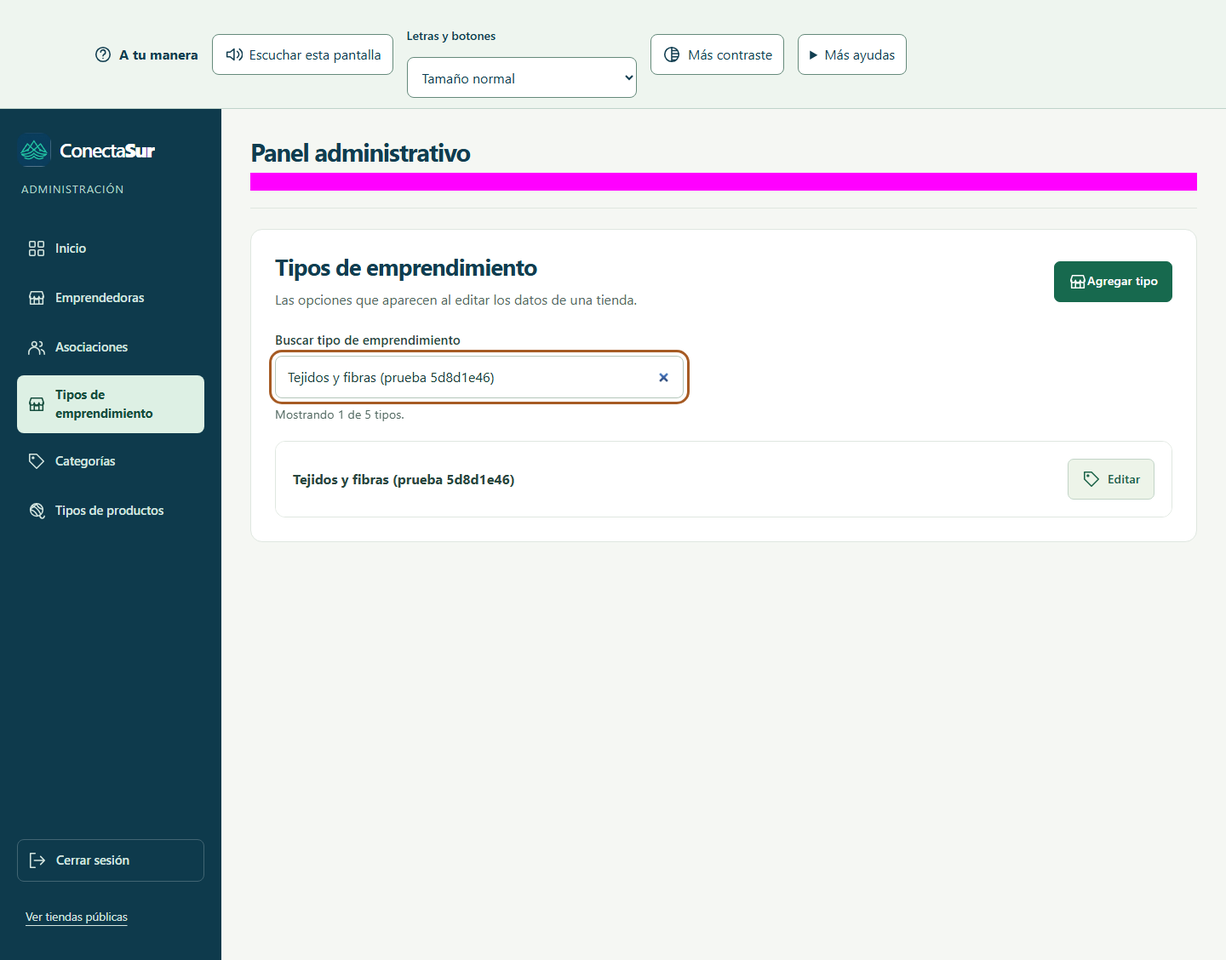
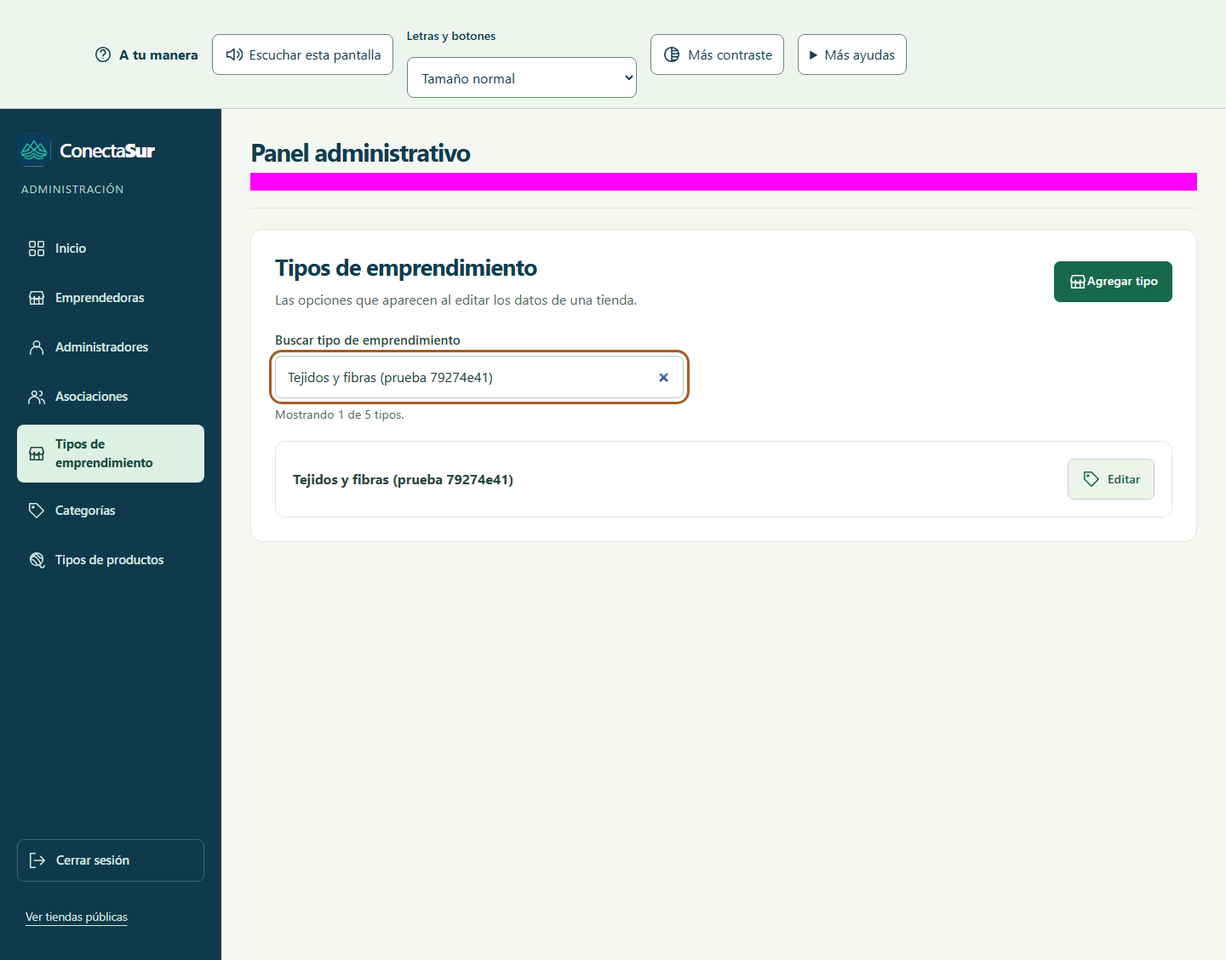
Pantalla para editar cuenta

Changed region(s): [[0.0, 0.3413, 0.1875, 0.5895], [0.375, 0.4965, 0.4375, 0.5275], [0.3438, 0.3723, 0.4062, 0.4034]]

diff --git a/web/src/entrepreneur-account-editor.js b/web/src/entrepreneur-account-editor.js
@@ -1,0 +1,37 @@
+import {escapeHtml as escape} from './content.js';
+import {icon} from './visuals.js';
+
+export function showEntrepreneurAccountEditor(container,data,shop,{onSaved,onCancel}){
+  let stopped=false,busy=false,initial=null;
+  const events=new AbortController();
+  container.innerHTML=`<section class="entrepreneur-account-editor" data-voice-guide="Aquí puedes editar el nombre de la cuenta de una emprendedora. Escribe el nombre de la persona y pulsa Guardar nombre. Su tienda y sus datos de acceso se conservan. Cancelar permite volver a la lista sin guardar."><div class="section-heading"><div><p class="public-eyebrow">Administración · Emprendedoras</p><h2 tabindex="-1">Editar cuenta</h2><p>Actualiza el nombre de la persona que administra este emprendimiento.</p></div></div><div class="form-card"><p class="editor-hint">Tienda: <strong>${escape(shop.name)}</strong></p><p data-account-status class="owner-status" role="status">Cargando cuenta…</p><form id="entrepreneur-account-form" hidden><label for="entrepreneur-account-name">Nombre de la emprendedora</label><input id="entrepreneur-account-name" required maxlength="120" autocomplete="name" aria-describedby="entrepreneur-account-help"><p id="entrepreneur-account-help" class="editor-hint">Este es el nombre de la persona. El nombre de su tienda y sus datos de acceso se conservan.</p><p id="entrepreneur-account-state"></p><div class="owner-actions"><button type="submit" id="save-entrepreneur-account">${icon('check')}Guardar nombre</button><button type="button" id="cancel-entrepreneur-account">Cancelar</button></div></form><button type="button" id="account-load-retry" hidden>Intentar nuevamente</button><button type="button" id="account-load-back">Volver a emprendedoras</button></div></section>`;
+  const root=container.querySelector('.entrepreneur-account-editor'),form=root.querySelector('form'),field=root.querySelector('#entrepreneur-account-name'),retry=root.querySelector('#account-load-retry'),back=root.querySelector('#account-load-back');
+  const alive=()=>!stopped && root.isConnected;
+  const dirty=()=>alive() && initial && field.value!==initial.displayName;
+  function tell(text,error=false){if(!alive())return;const status=root.querySelector('[data-account-status]');status.textContent=text;status.className='owner-status'+(error?' owner-error':'');status.setAttribute('role',error?'alert':'status');if(error){status.tabIndex=-1;status.focus();}}
+  function requestLeave(){if(!alive())return true;if(busy){tell('Espera a que termine el guardado.');return false;}return !dirty() || window.confirm('Hay cambios sin guardar. ¿Quieres salir y descartarlos?');}
+  function cancel(){if(requestLeave())onCancel();}
+  async function load(){
+    retry.hidden=true;retry.disabled=true;tell('Cargando cuenta…');
+    try{
+      const result=await data.get({uid:shop.ownerUid,shopId:shop.id});if(!alive())return;
+      initial=result;field.value=result.displayName;root.querySelector('#entrepreneur-account-state').textContent='Estado de la cuenta: '+(result.active?'Activa.':'Inactiva.');form.hidden=false;back.hidden=true;tell('');field.focus({preventScroll:true});
+    }catch(error){if(alive()){tell(error.code==='entrepreneur_account_changed'?error.message:'No pudimos cargar la cuenta. Revisa tu conexión y vuelve a intentarlo.',true);retry.hidden=false;}}
+    finally{if(alive())retry.disabled=false;}
+  }
+  root.querySelector('h2').focus({preventScroll:true});
+  retry.addEventListener('click',load);back.addEventListener('click',cancel);root.querySelector('#cancel-entrepreneur-account').addEventListener('click',cancel);field.addEventListener('input',()=>field.setCustomValidity(''));
+  form.addEventListener('submit',async event=>{
+    event.preventDefault();if(busy || !initial)return;
+    if(!field.value.trim()){field.setCustomValidity('Escribe el nombre de la emprendedora.');field.reportValidity();return;}
+    busy=true;form.querySelectorAll('button,input').forEach(el=>el.disabled=true);const save=root.querySelector('#save-entrepreneur-account');save.setAttribute('aria-busy','true');tell('Guardando el nombre de la cuenta…');
+    try{
+      const result=await data.rename({uid:initial.uid,shopId:initial.shopId,displayName:field.value,expectedName:initial.displayName});
+      if(!alive())return;initial=result;field.value=result.displayName;onSaved(result);
+    }catch(error){if(alive())tell(['invalid_entrepreneur_account','entrepreneur_account_changed','entrepreneur_account_not_ready','entrepreneur_account_unconfirmed'].includes(error.code)?error.message:'No pudimos confirmar el guardado. Revisa tu conexión y vuelve a intentarlo. Conservamos el nombre escrito.',true);}
+    finally{busy=false;if(alive()){form.querySelectorAll('button,input').forEach(el=>el.disabled=false);save.removeAttribute('aria-busy');}}
+  });
+  window.addEventListener('beforeunload',event=>{if(dirty() || busy){event.preventDefault();event.returnValue='';}},{signal:events.signal});
+  load();
+  return {requestLeave,dispose(){stopped=true;events.abort();}};
+}

diff --git a/web/src/main.js b/web/src/main.js
@@ -11,6 +11,8 @@ import { showPasswordRecovery } from './password-recovery.js';
 import { showAssociationEditor } from './association-editor.js';
 import { showEntrepreneurTypes } from './entrepreneur-types.js';
 import { showAdminAccounts } from './admin-accounts.js';
+import { createEntrepreneurAccountData } from '../entrepreneur-account-data.js';
+import { showEntrepreneurAccountEditor } from './entrepreneur-account-editor.js';
 
 let adminEditor=null;
 function releaseAdminEditor(){adminEditor?.dispose();adminEditor=null;}
@@ -20,6 +22,7 @@ let incomingRecovery = takeRecoveryLocation();
 const app = document.querySelector('#app');
 const accessibility = initAccessibility(app);
 const db = createDataLayer(config);
+const entrepreneurAccounts = createEntrepreneurAccountData(db);
 let sessionNavigationVersion=0;
 // El callback de Auth permanece síncrono: no consulta al SDK bajo el bloqueo de Auth.
 db.onSession(user=>{
@@ -192,7 +195,7 @@ async function cargarEmprendedoras() {
 
     <div class="admin-account-filters">
       <div>
-        <label for="tiendas-search">Buscar por tienda, tipo, sector o contacto</label>
+        <label for="tiendas-search">Buscar por emprendedora, tienda, tipo, sector o contacto</label>
         <input id="tiendas-search" type="search" placeholder="Ejemplo: tejidos o Alerce" disabled>
       </div>
       <div>
@@ -228,7 +231,7 @@ async function cargarEmprendedoras() {
     const estado = selectorEstado.value;
     const filtradas = tiendas.filter(tienda => {
       const texto = normalizarTexto(
-        `${tienda.name || ''} ${tienda.entrepreneurType || ''} ${tienda.sector || ''} ${tienda.contact || ''}`
+        `${tienda.account?.displayName || ''} ${tienda.name || ''} ${tienda.entrepreneurType || ''} ${tienda.sector || ''} ${tienda.contact || ''}`
       );
       const coincideEstado =
         estado === 'all' || tienda.active === (estado === 'active');
@@ -260,6 +263,7 @@ async function cargarEmprendedoras() {
               <tr>
                 <td>
                   <strong>${escapar(tienda.name)}</strong>
+                  <small>Emprendedora: ${escapar(tienda.account?.displayName || 'Cuenta no disponible')}</small>
                   <small>
                     ${escapar(tienda.entrepreneurType || 'Sin tipo')}
                   </small>
@@ -277,8 +281,11 @@ async function cargarEmprendedoras() {
                 </td>
 
                 <td class="actions">
+                  <button type="button" data-edit-account="${escapar(tienda.id)}" ${tienda.account?'':'disabled'}>
+                    Editar cuenta
+                  </button>
                   <button data-edit="${escapar(tienda.id)}">
-                    Editar
+                    Editar tienda
                   </button>
 
                   <button data-toggle="${escapar(tienda.id)}">
@@ -290,6 +297,17 @@ async function cargarEmprendedoras() {
           </tbody>
         </table>
       </div>`;
+
+    region.querySelectorAll('[data-edit-account]').forEach(boton=>{
+      boton.addEventListener('click',()=>{
+        const tienda=tiendas.find(item=>item.id===boton.dataset.editAccount);
+        if(!tienda || !leaveAdminEditor())return;
+        adminEditor=showEntrepreneurAccountEditor(contenido,entrepreneurAccounts,tienda,{
+          onCancel:()=>{releaseAdminEditor();cargarEmprendedoras();},
+          onSaved:()=>{releaseAdminEditor();cargarEmprendedoras();mostrarMensaje('Nombre de la cuenta guardado.');}
+        });
+      });
+    });
 
     region.querySelectorAll('[data-edit]').forEach(boton => {
       boton.addEventListener('click', () => {
@@ -335,7 +353,8 @@ async function cargarEmprendedoras() {
   }
 
   try {
-    tiendas = await db.listShops();
+    const [shops,accounts]=await Promise.all([db.listShops(),entrepreneurAccounts.list()]);
+    tiendas=shops.map(shop=>({...shop,account:accounts.find(item=>item.uid===shop.ownerUid && item.shopId===shop.id)}));
 
     if (seccionActual !== 'emprendedoras' || !region.isConnected) return;
 

diff --git a/web/entrepreneur-account-data.js b/web/entrepreneur-account-data.js
@@ -1,0 +1,35 @@
+// Contrato de cuentas del panel; separado de Auth/Google, a cargo del compañero.
+const unwrap=({data,error})=>{if(error)throw Object.assign(new Error(error.message),{code:error.code,status:error.status});return data;};
+const account=row=>({uid:row.id,shopId:row.shop_id,displayName:row.display_name,active:row.active});
+const columns='id,shop_id,display_name,active';
+
+export function createEntrepreneurAccountData(db){
+  async function requireAdmin(){
+    const user=await db.currentSession();
+    if(!user || user.role!=='admin' || !user.active)throw Object.assign(new Error('Necesitas una cuenta administradora activa'),{code:'admin_required'});
+  }
+  async function read(uid,shopId){
+    const row=unwrap(await db.client.from('profiles').select(columns).eq('id',uid).eq('shop_id',shopId).eq('role','emprendedora').maybeSingle());
+    if(!row)throw Object.assign(new Error('La cuenta o su tienda cambiaron. Vuelve a la lista para revisar sus datos.'),{code:'entrepreneur_account_changed'});
+    return account(row);
+  }
+  return {
+    async list(){
+      await requireAdmin();
+      return unwrap(await db.client.from('profiles').select(columns).eq('role','emprendedora')).map(account);
+    },
+    async get({uid,shopId}){await requireAdmin();return read(uid,shopId);},
+    async rename({uid,shopId,displayName,expectedName}){
+      const name=String(displayName??'').trim();
+      if(!name || name.length>120 || typeof expectedName!=='string' || !uid || !shopId)throw Object.assign(new Error('Escribe un nombre de hasta 120 caracteres.'),{code:'invalid_entrepreneur_account'});
+      await requireAdmin();
+      const result=await db.client.rpc('update_entrepreneur_account',{p_uid:uid,p_shop_id:shopId,p_name:name,p_expected_name:expectedName});
+      if(result.error?.code==='PGRST202')throw Object.assign(new Error('El cambio de nombre aún no está habilitado. Conservamos los datos escritos.'),{code:'entrepreneur_account_not_ready'});
+      if(['CS004','CS005'].includes(result.error?.code))throw Object.assign(new Error('La cuenta cambió en otra sesión. Vuelve a la lista para revisar los datos actuales.'),{code:'entrepreneur_account_changed'});
+      unwrap(result);
+      const confirmed=await read(uid,shopId);
+      if(confirmed.displayName!==name)throw Object.assign(new Error('No pudimos confirmar el nombre guardado. Vuelve a intentarlo.'),{code:'entrepreneur_account_unconfirmed'});
+      return confirmed;
+    }
+  };
+}

diff --git a/web/src/style.css b/web/src/style.css
@@ -195,6 +195,11 @@ p, dd, h1, h2, h3 { overflow-wrap: anywhere; }
 .admin-type-list strong { min-width: 0; overflow-wrap: anywhere; }
 .admin-type-list button { flex-shrink: 0; display: inline-flex; align-items: center; justify-content: center; gap: 8px; }
 .entrepreneur-types .form-card { max-width: 760px; }
+.entrepreneur-account-editor .form-card { max-width: 700px; }
+.entrepreneur-account-editor .owner-actions { display: flex; flex-wrap: wrap; gap: 12px; }
+.entrepreneur-account-editor .owner-actions button { display: inline-flex; align-items: center; justify-content: center; gap: 8px; }
+.entrepreneur-account-editor [hidden] { display: none !important; }
+@media(max-width: 540px) { .entrepreneur-account-editor .owner-actions button { flex: 1 1 100%; } }
 @media(max-width: 540px) { .admin-type-list li { align-items: stretch; flex-direction: column; gap: 12px; } }
 .recovery-steps { display: flex; flex-wrap: wrap; gap: 8px; list-style: none; margin-top: 26px; font-size: .9rem; }
 .recovery-steps li { padding: 8px 12px; border: 1px solid var(--line); border-radius: 8px; background: white; }

diff --git a/docs/entrega-4/informe.md b/docs/entrega-4/informe.md
@@ -6,10 +6,10 @@
 
 ### Web: administración, acceso y ficha pública
 - **Acceso único por perfil (`#ingresar`):** el servidor valida el perfil activo en `profiles` y dirige automáticamente al panel administrativo (`admin`), a `Mi tienda` (`emprendedora`) o a `Mi cuenta` (`comprador`). El visitante recorre la portada, el catálogo y las fichas de tienda (`#tienda/ID`) sin iniciar sesión (**W01, W02, W25, W26, W29–W32**). También se programó la opción «Continuar con Google» para compradores (`loginWithGoogle` en `web/supabase-data.js`), condicionada a activar el proveedor en el servidor (ver sección 2).
-- **Gestión de emprendedoras (**W04–W09, WA4, WA5**):** creación de cuenta y tienda con sesión secundaria aislada (sin cerrar la sesión del administrador), pantalla de entrega con opción de mostrar y copiar credenciales al portapapeles, edición de datos de tienda con persistencia al recargar, desactivación con confirmación explícita y bloqueo inmediato de ingreso en web y Android para cuentas desactivadas.
+- **Gestión de emprendedoras (**W04, W05, W08, W09, WA4, WA5**):** creación de cuenta y tienda con sesión secundaria aislada (sin cerrar la sesión del administrador), pantalla de entrega con opción de mostrar y copiar credenciales al portapapeles, edición de datos de tienda, desactivación con confirmación y bloqueo de ingreso para cuentas desactivadas. **W06/W07:** la pantalla Editar cuenta y la lectura del nombre de la persona están preparadas; el guardado y su persistencia real esperan la función de backend del compañero. Editar la tienda no acredita por sí solo editar la cuenta. Ver el [contrato de integración](contrato-cuenta-emprendedora.md).
 - **Gestión de asociaciones (**W10–W19, WA4, WA6**):** alta y edición de asociaciones con nombre, descripción, sector, contacto y logo en Storage (`association-images`), asignación y retiro de tiendas integrantes, y desactivación con confirmación.
 - **Catálogos y cuentas administradoras (**W20–W24**):** creación y edición de tipos de emprendimiento, categorías y tipos de productos; gestión de otras cuentas administradoras (alta, edición de nombre, activación y desactivación con protección contra baja propia y del último administrador activo); búsqueda por texto y filtros de estado en los listados administrativos (emprendedoras, administradores, asociaciones, tipos de emprendimiento, categorías y tipos de producto).
-- **Recuperación de contraseña (**W27**):** solicitud de correo de recuperación y restablecimiento de contraseña pegando el enlace o código recibido, cerrando sesiones previas si corresponde.
+- **Recuperación de contraseña (**W27, validación parcial**):** solicitud de recuperación y restablecimiento pegando el enlace recibido, con pruebas reales del desafío y cambio de contraseña usando cuentas temporales. Falta comprobar la llegada a un buzón real; la redirección automática conserva su límite externo. Ver [evidencia y límites](recuperacion-contrasena.md).
 - **Ficha de tienda y edición web (**W33–W40, WA1, WA2**):** visualización pública de nombre, logo, descripción, tipo de emprendimiento, sector y contacto tal como los guarda la emprendedora; edición de ficha y logo también desde la web; interfaz en español de Chile, diseño adaptable a teléfono sin desbordes y acceso exclusivo mediante capa de datos (`web/supabase-data.js`).
 
 ### App Android: acceso de emprendedora y comprador, huella y ficha de tienda
@@ -19,8 +19,8 @@
 - **Usabilidad, idioma y arquitectura (**A22–A26, B16**):** español de Chile, acceso a datos por repositorios (`domain/Repositories.kt` y `data/SupabaseRepositories.kt`), botones con iconos acompañados de texto, altura táctil mínima de 48 dp y respeto al tamaño de fuente del sistema.
 
 ### Backend, seguridad y datos de prueba
-- **Reglas, permisos y modelo (**B01–B13, BA1**):** control de acceso por fila (RLS) y funciones RPC con `security definer` en PostgreSQL y Storage (`supabase/migrations/001_conectasur.sql` a `006_cuentas_administradoras.sql`), asegurando que ninguna emprendedora modifique tiendas o archivos ajenos y que solo un administrador activo gestione cuentas, asociaciones y catálogos. El modelo de datos, sus decisiones y sus índices están documentados en [docs/felipe/modelo-datos.md](../felipe/modelo-datos.md), y el modelo original de Firestore junto con sus reglas se conserva en [docs/historico/modelo-firestore.md](../historico/modelo-firestore.md).
-- **Higiene de repositorio y ejecución (**B14, B15, B17, B18**):** credenciales y claves privadas excluidas de Git, pasos de ejecución documentados en [README.md](../../README.md), contribuciones de los integrantes en el historial y etiqueta `entrega-4` sobre el commit de entrega.
+- **Reglas, permisos y modelo (**B01–B13, BA1; demostración a cargo de la Parte 2**):** existen políticas RLS, funciones RPC y políticas de Storage (`supabase/migrations/001_conectasur.sql` a `006_cuentas_administradoras.sql`) con pruebas de aislamiento por perfil. El modelo vigente está en [docs/felipe/modelo-datos.md](../felipe/modelo-datos.md). Antes del cierre, presentar modelo, relaciones, justificación de índices, entorno de desarrollo/datos ficticios y lectura/escritura reales en la consola; explicitar la adaptación de los ítems que todavía nombran Firebase. El diseño original se conserva en [docs/historico/modelo-firestore.md](../historico/modelo-firestore.md) y el commit histórico `f87cc6a`. Este antecedente no equivale a que el backend activo sea Firestore.
+- **Higiene de repositorio y ejecución (**B14, B15, B17, B18**):** configuraciones privadas excluidas de Git, pasos de ejecución en [README.md](../../README.md) y contribuciones de integrantes en el historial. La etiqueta `entrega-4` existe; deberá identificar el cierre revisado de ambas partes, sin confundir su publicación con el despliegue de Hosting.
 
 ---
 
@@ -28,9 +28,9 @@
 
 | Bloque | Cubiertos | Pendientes o condicionados |
 | --- | --- | --- |
-| **1. Web (W01–W40, WA1–WA6)** | W01–W27, W29–W40; adicionales WA1, WA2, WA4, WA5, WA6 | **W28** (botón y flujo OAuth con Google programados en la web, pero el proveedor Google está desactivado en Supabase Auth: `/auth/v1/settings` responde `"google": false` el 3 de noviembre; la web muestra un aviso claro en vez de iniciar sesión); **WA3** (registro de auditoría activo en tabla `admin_actions` por triggers, sin pantalla de consulta en el panel). |
-| **2. App Android (A01–A26, AA1–AA4)** | A01–A08, A11, A13–A26; adicionales AA1, AA2, AA4 | **A09, A10, A12** (acceso de comprador solo con Google y su cierre de sesión programados en `MainActivity`, con retorno `conectasur://auth/callback`; no funcionan de punta a punta mientras el proveedor Google siga desactivado en el servidor y no se autorice ese retorno); **AA3** (demostración de huella en teléfono físico durante la sesión). |
-| **3. Backend y repositorio (B01–B20, BA1)** | B01–B19, BA1 (sobre la instancia Supabase del grupo y con respaldo documental de Firebase en `docs/historico/`) | **B20** (la mayoría de las integraciones se realizaron sobre `main` por acuerdo del grupo, sin enlazar cada tarea mediante Pull Requests separados a issues). |
+| **1. Web (W01–W40, WA1–WA6)** | W01–W05, W08–W26, W29–W40; adicionales WA1, WA2, WA4, WA5, WA6 según las pruebas de cada hito | **W06/W07:** formulario listo, guardado real pendiente de la función del compañero. **W27:** confirmar recepción en buzón; alternativa de pegar enlace probada. **W28:** código Google preparado, pendiente habilitación/validación real y corrección del retorno que permite sustituir una sesión. **WA3:** auditoría en tabla, sin pantalla de consulta. |
+| **2. App Android (A01–A26, AA1–AA4)** | Acceso y edición de tienda implementados; comprobar A01–A08, A11 y A13–A26 en el recorrido final. AA1/AA2 implementados | **A09/A10/A12:** Google y cierre programados, pendientes de recorrido real. **AA4:** asociaciones programadas; corregir la cancelación que restaura el estado anterior al cerrar sesión durante la consulta. **A08:** comprobar el comportamiento de contraseña tras desactivar huella. **AA3:** demostración física adicional. |
+| **3. Backend y repositorio (B01–B20, BA1)** | Modelo, políticas, pruebas, README, arquitectura, historial e informe disponibles; respaldos históricos en `docs/historico/` | **B01–B13/BA1:** cerrar demostración, justificación de índices, separación de entornos y adaptación Supabase con el compañero. **B17:** etiqueta sobre el cierre revisado. **B20:** faltan tareas como issues enlazadas desde los PR correspondientes; no se acredita ese requisito mediante commits directos. |
 | **4. Problemáticas (P01a–P09a)** | **P01a** (guía de luz y encuadre al subir logo), **P04a** (ficha web comprensible desde teléfono sin instalar la app), **P05a** (vista previa del logo y confirmación antes de publicar cambios) | Pruebas presenciales con usuarias en teléfonos físicos (**P08a**). |
 
 ---

diff --git a/docs/entrega-4/contrato-cuenta-emprendedora.md b/docs/entrega-4/contrato-cuenta-emprendedora.md
@@ -1,0 +1,56 @@
+# Editar cuenta de emprendedora — W06 / W07
+
+Estado: pantalla y contrato preparados por Benjamín. **El guardado real depende de una función de backend a cargo del compañero de la Parte 2.** La consulta al catálogo SQL del servidor no encontró esa función al iniciar este hito; no se confirmó que ya esté trabajando en ella. No se aplicó una migración ni se modificó Auth, Google o Android para esta pantalla.
+
+En Emprendedoras, el panel muestra el nombre de la persona junto a su tienda. **Editar cuenta** cambia el nombre de la persona; **Editar tienda** conserva el editor de la ficha comercial. La búsqueda admite ambos nombres. El formulario conserva los datos ante errores, confirma antes de descartar y vuelve a consultar el perfil después de guardar. La cuenta puede estar activa o inactiva; editar el nombre no cambia su estado, rol, tienda, correo ni contraseña.
+
+## Contrato que necesita el compañero
+
+Función pública de PostgreSQL, llamada por PostgREST con la sesión del administrador:
+
+~~~sql
+public.update_entrepreneur_account(
+  p_uid uuid,
+  p_shop_id text,
+  p_name text,
+  p_expected_name text
+) returns void
+~~~
+
+| Parámetro | Significado |
+|---|---|
+| p_uid | ID de profiles de la emprendedora |
+| p_shop_id | Tienda que figuraba asignada a esa cuenta al abrir la edición |
+| p_name | Nombre solicitado, recortado en extremos, entre 1 y 120 caracteres |
+| p_expected_name | Nombre leído al abrir el formulario, para detectar cambios de otra sesión |
+
+La respuesta exitosa es null (void). La pantalla confirma el valor mediante SELECT de profiles antes de anunciar éxito. No envía role, active, correo ni contraseña.
+
+## Condiciones de servidor pendientes de implementar y probar
+
+1. Autorizar únicamente al administrador activo según el perfil del servidor, no según metadatos de Auth o campos enviados por el cliente.
+2. Validar nombre y parámetros. Buscar la cuenta con bloqueo de fila; exigir rol emprendedora y shop_id coincidente. Mantener todos los otros campos.
+3. Si el nombre actual ya es el solicitado, tratarlo como reintento exitoso. Si difiere tanto del solicitado como de p_expected_name, rechazar el formulario desactualizado. Actualizar solamente display_name.
+4. Conservar la auditoría existente de profiles. No abrir UPDATE directo al rol authenticated, que está revocado desde la migración 006.
+5. Usar SECURITY DEFINER con search_path vacío y nombres cualificados, retirar EXECUTE de PUBLIC/anon y concederlo solo a authenticated. La función debe comprobar además al actor en su cuerpo.
+6. Probar en una base aislada permisos, nombres inválidos, tienda o rol cambiados, cuentas inactivas, reintentos y conflictos. Luego probar lectura/guardado/recarga contra la instancia del grupo con fixtures propios.
+
+Códigos esperados por el cliente:
+
+| Código | Resultado |
+|---|---|
+| 42501 | Actor sin permiso |
+| 23514 | Datos inválidos |
+| CS004 | Conflicto de nombre con otra edición |
+| CS005 | Cuenta, rol o tienda ya no coinciden |
+| PGRST202 | PostgREST no encuentra la función; el panel informa que el cambio aún no está habilitado |
+
+La implementación se integra en un archivo nuevo de migración del compañero. No editar migraciones ya aplicadas ni incluir credenciales en Git. Este contrato propone el nombre y los parámetros; si el compañero ya eligió otro contrato, adaptar el pequeño módulo web/entrepreneur-account-data.js antes de la integración.
+
+## Verificación y cierre
+
+security/entrepreneur-account-data.test.mjs prueba la capa de datos con respuestas simuladas. Las pruebas del formulario deben distinguir lectura real, escritura simulada y guardado real. **W06/W07 no se marcan cerrados hasta que la función esté aplicada y el cambio persista al recargar contra Supabase real.**
+
+La publicación final se coordina con el cierre de Google y los otros pendientes de la Parte 2; agregar este formulario no corrige por sí mismo el retorno OAuth revisado.
+
+Resultado del hito de interfaz, 3 de noviembre de 2026: nueve pruebas de la capa de datos y nueve comprobaciones del editor aprobadas; las lecturas y el caso de función ausente usan la instancia real, mientras que los guardados, reintentos y conflictos se simulan. El informe security/reports/entrepreneur-account-editor/verification.json registra backendReady=false. También aprobaron 14 comprobaciones de tipos de emprendimiento, 21 de acceso y diez pruebas compartidas de modelos/reintentos. Vite compiló correctamente y se revisaron capturas de escritorio y celular con texto ampliado y contraste. Los fixtures reales se eliminaron al terminar. No se publicó Hosting en este hito.

diff --git a/docs/publicacion-web.md b/docs/publicacion-web.md
@@ -44,6 +44,8 @@ El panel también permite [crear, editar y buscar tipos de emprendimiento](entre
 
 La sección [Administradores](entrega-4/cuentas-administradoras.md) corresponde a W23: altas, edición de nombre y activación/desactivación de otras cuentas. Requiere la migración 006_cuentas_administradoras.sql antes de publicar. ADMIN_ACCOUNTS_URL permite ejecutar security/admin-accounts-check.mjs sobre la URL publicada. El cliente usa únicamente anon y la sesión del usuario; las credenciales de Studio quedan fuera de la publicación.
 
+La nueva pantalla [Editar cuenta de emprendedora](entrega-4/contrato-cuenta-emprendedora.md) tiene una dependencia de integración: el compañero de la Parte 2 debe implementar y aplicar update_entrepreneur_account antes de verificar su guardado real. La prueba de interfaz distingue la API real sin función de la simulación del contrato. La publicación final de ambos trabajos queda pendiente de esa integración y de corregir el retorno OAuth observado en la revisión; compilar o subir un commit no demuestra que Hosting se haya actualizado.
+
 Mis ventas permite registrar operaciones e historial privado desde la web, usando el mismo RPC transaccional que Android. SALES_URL selecciona la dirección pública para security/owner-sales-check.mjs; la prueba crea y elimina sus propios datos. Ver docs/entrega-5/ventas-web.md.
 
 El dashboard de emprendedora incorpora resumen privado y navegación con sesión. El encabezado muestra Mi tienda o Mi panel según el perfil; DASHBOARD_URL permite comprobar la publicación con security/dashboard-navigation-check.mjs. Ver docs/entrega-4/dashboard-web.md.

diff --git a/README.md b/README.md
@@ -14,6 +14,8 @@ El panel web permite [guardar logos de asociaciones](docs/entrega-4/logos-asocia
 
 También permite [gestionar otras cuentas administradoras](docs/entrega-4/cuentas-administradoras.md): crear, editar su nombre, desactivar y reactivar, sin cerrar la sesión de quien realiza el alta. La migración 006 protege estas operaciones en el servidor y bloquea la desactivación propia.
 
+La pantalla **Editar cuenta** de emprendedora está preparada para cambiar el nombre de la persona, separado de **Editar tienda**. El guardado W06/W07 sigue pendiente de la función de backend de la Parte 2; su [contrato de integración](docs/entrega-4/contrato-cuenta-emprendedora.md) indica los parámetros y las validaciones. La pantalla informa cuando esa función todavía no está habilitada.
+
 ## Configuración local
 
 La emprendedora también puede administrar [productos y stock desde la web](docs/entrega-4/productos-web.md): fotos, campos por tipo, variantes y modalidades de disponibilidad. Se accede desde Ingresar → Mis productos. La web usa los mismos registros que Android.
